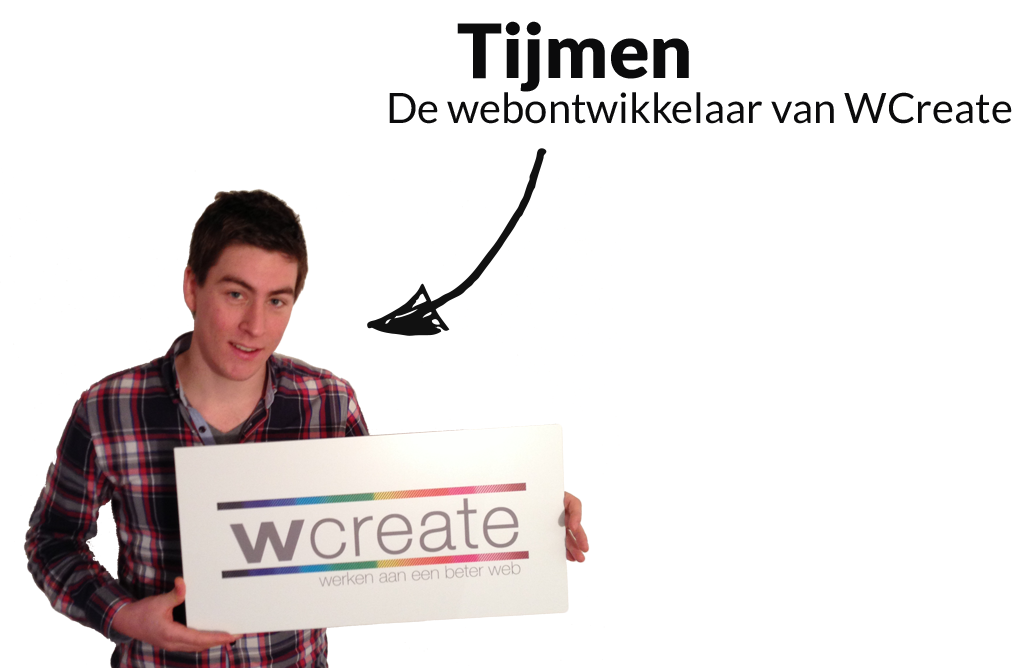
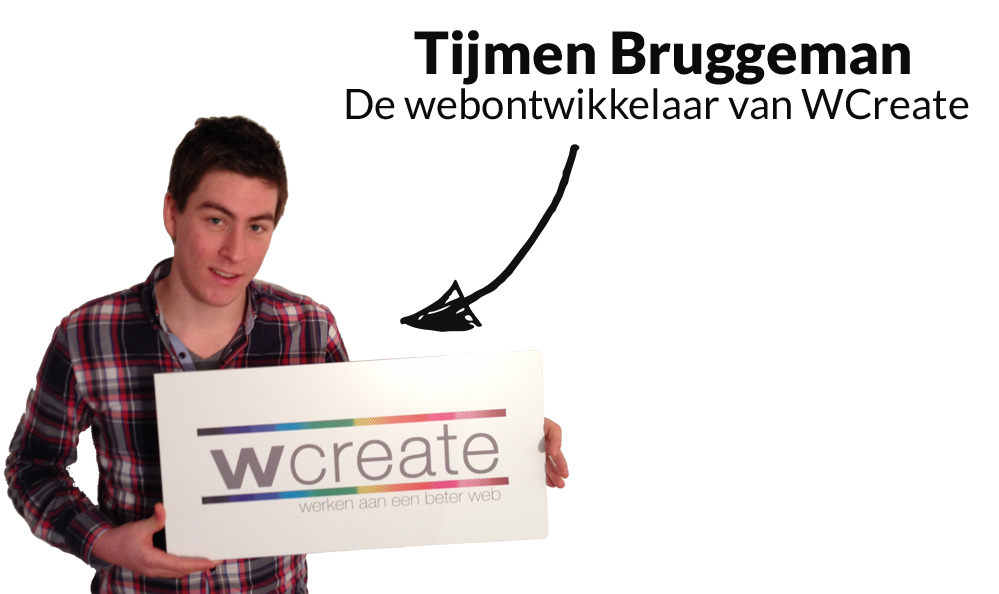
About pagina van tekst voorzien.

Changed region(s): [[0.0, 0.1818, 0.5896, 1.0], [0.3413, 0.0303, 0.993, 0.2424], [0.5586, 0.2424, 0.5896, 0.3333]]

diff --git a/css/style.css b/css/style.css
@@ -1,2 +1,2 @@
-@import url(//fonts.googleapis.com/css?family=Lato:400,700,900);*,html{box-sizing:border-box}body{background:#fff;font-family:Lato,sans-serif;font-size:13px;line-height:20px;margin:0}a{text-decoration:none}p{margin-top:0}.slanted{font-style:italic;font-weight:800}.container,.header{max-width:960px;margin:20px auto;padding:0 20px}.header{display:-webkit-box;display:-ms-flexbox;display:flex;-webkit-box-pack:justify;-ms-flex-pack:justify;justify-content:space-between;background-image:url(../img/bar.png);background-position:bottom left;background-repeat:repeat-x;background-size:100% 5px}.logo h1{text-align:center;color:Lato,sans-serif;margin:0;line-height:50px}.nav-list{list-style:none}.nav-list li{float:left}.nav-list a{display:block;padding:8px 12px;font-weight:700;color:#222}.nav-list a:hover{color:#2c64e8}.landing{padding:60px 0;text-align:center}.landing-title{font-size:3.8em;font-weight:800;margin-bottom:30px;text-shadow:2px 2px 1px #ccc;line-height:initial}@media only screen and (max-width:480px){.landing-title{font-size:3.2em}}.landing-content p{max-width:400px;margin:0 auto}.landing-content .btn{margin:10px 5px}.services{max-width:800px;margin:0 auto;display:-webkit-box;display:-ms-flexbox;display:flex;-webkit-box-pack:justify;-ms-flex-pack:justify;justify-content:space-between}@media only screen and (max-width:480px){.services{-webkit-box-orient:vertical;-webkit-box-direction:normal;-ms-flex-direction:column;flex-direction:column;margin:20px}}.service-title{text-align:center;padding-bottom:10px;border-bottom:1px solid #ccc}@media only screen and (max-width:480px){.service-title{text-align:left;border:none;padding-bottom:0}}.service{width:30%;text-align:center}@media only screen and (max-width:480px){.service{width:100%;border-bottom:1px solid #ccc}}.arrow-down{margin:80px auto;display:block}.recent{display:-webkit-box;display:-ms-flexbox;display:flex;position:relative;-webkit-box-pack:justify;-ms-flex-pack:justify;justify-content:space-between;-webkit-box-align:center;-ms-flex-align:center;align-items:center}@media only screen and (max-width:480px){.recent{display:block}}.recent-description,.recent-screenshot{width:48%}@media only screen and (max-width:480px){.recent-description,.recent-screenshot{width:100%}}.recent-screenshot img{max-width:100%}.footer{background-image:url(../img/bar.png);background-position:top left;background-repeat:repeat-x;background-size:100% 5px;display:-webkit-box;display:-ms-flexbox;display:flex;padding-top:40px;margin-top:80px}@media only screen and (max-width:480px){.footer{-webkit-box-orient:vertical;-webkit-box-direction:reverse;-ms-flex-direction:column-reverse;flex-direction:column-reverse}}.adres,.contact,.social{list-style:none;padding:0;margin:0;width:30%}@media only screen and (max-width:480px){.adres,.contact,.social{margin-bottom:20px}}.site-description{width:40%}@media only screen and (max-width:480px){.site-description{width:100%}}.portfolio-intro{width:340px}.project{position:relative;padding-top:50px;padding-bottom:50px}.project-titel{background:#fff;width:100%;max-width:300px;text-transform:uppercase;display:block;padding:7px;box-shadow:1px 1px 1px rgba(0,0,0,.1)}.project-descr{width:50%}@media only screen and (max-width:480px){.project-descr{width:100%}}.project-descr p{background:#fff;box-shadow:1px 1px 1px rgba(0,0,0,.1)}.project-image{width:48%}@media only screen and (max-width:480px){.project-image{width:100%}}.project-image img{max-width:100%;margin:0 auto;display:block}@media only screen and (max-width:480px){.project-image img{width:100%}}.project .container{display:-webkit-box;display:-ms-flexbox;display:flex;-webkit-box-pack:justify;-ms-flex-pack:justify;justify-content:space-between;-webkit-box-align:center;-ms-flex-align:center;align-items:center}@media only screen and (max-width:480px){.project .container{-webkit-box-orient:vertical;-webkit-box-direction:normal;-ms-flex-direction:column;flex-direction:column}}.project::after{position:absolute;top:0;left:0;-webkit-transform:skewY(-20deg);transform:skewY(-20deg);content:'';display:block;width:100%;height:800px;max-height:100%;background:rgba(0,0,0,.025);z-index:-999}.project:nth-child(even)::after{-webkit-transform:skewY(20deg);transform:skewY(20deg)}@media only screen and (min-width:480px){.project:nth-child(even) .container{-webkit-box-orient:horizontal;-webkit-box-direction:reverse;-ms-flex-direction:row-reverse;flex-direction:row-reverse}}.project:nth-child(even) img{right:-40px}.gallery{display:-webkit-box;display:-ms-flexbox;display:flex;-ms-flex-wrap:wrap;flex-wrap:wrap;-webkit-box-pack:justify;-ms-flex-pack:justify;justify-content:space-between;-webkit-box-align:stretch;-ms-flex-align:stretch;align-items:stretch;position:relative}.project-gallery a{border-right:3px solid #fff;border-bottom:3px solid #fff;height:100%;width:100%;position:absolute;z-index:999}.project-gallery{width:33.33333333%;position:relative;min-height:150px;overflow:hidden}@media only screen and (max-width:480px){.project-gallery{width:50%}}.project-gallery img{max-width:100%;-webkit-transition:all .3s ease-out;transition:all .3s ease-out;position:absolute}.project-gallery-title{position:absolute;top:50%;z-index:1;width:100%;text-align:center;color:#fff;font-weight:800;font-size:2em}.btn{background:#f38630;background-image:-webkit-linear-gradient(125deg,#f37130,#f39830);background-image:linear-gradient(-35deg,#f37130,#f39830);white-space:nowrap;display:inline-block;padding:8px 10px;color:#fff;box-shadow:0 0 5px rgba(0,0,0,.2);-webkit-transition-delay:.1s;transition-delay:.1s;-webkit-transition:all .3s;transition:all .3s}.btn:hover{box-shadow:0 2px 9px rgba(0,0,0,.2);background-image:-webkit-linear-gradient(125deg,#f47b3e,#f29121);background-image:linear-gradient(-35deg,#f47b3e,#f29121)}button{border:0}.btn-secondary{background:#fff;color:#2c64e8;border:2px solid #2c64e8}.btn-secondary:hover{background-image:-webkit-linear-gradient(top,#fff,#fefefe,#fcfcfc);background-image:linear-gradient(180deg,#fff,#fefefe,#fcfcfc)}
[1 lines of base64/hex data omitted]
+@import url(//fonts.googleapis.com/css?family=Lato:400,700,900);*,html{box-sizing:border-box}body{background:#fff;font-family:Lato,sans-serif;font-size:13px;line-height:20px;margin:0}a{text-decoration:none}p{margin-top:0}.slanted{font-style:italic;font-weight:800}.quote{color:#555;font-style:italic}.container,.header{max-width:960px;margin:20px auto;padding:0 20px}.header{display:-webkit-box;display:-ms-flexbox;display:flex;-webkit-box-pack:justify;-ms-flex-pack:justify;justify-content:space-between;background-image:url(../img/bar.png);background-position:bottom left;background-repeat:repeat-x;background-size:100% 5px}.logo h1{text-align:center;color:Lato,sans-serif;margin:0;line-height:50px}.nav-list{list-style:none}.nav-list li{float:left}.nav-list a{display:block;padding:8px 12px;font-weight:700;color:#222}.nav-list a:hover{color:#2c64e8}.landing{padding:60px 0;text-align:center}.landing-title{font-size:3.8em;font-weight:800;margin-bottom:30px;text-shadow:2px 2px 1px #ccc;line-height:initial}@media only screen and (max-width:480px){.landing-title{font-size:3.2em}}.landing-content p{max-width:400px;margin:0 auto}.landing-content .btn{margin:10px 5px}.services{max-width:800px;margin:0 auto;display:-webkit-box;display:-ms-flexbox;display:flex;-webkit-box-pack:justify;-ms-flex-pack:justify;justify-content:space-between}@media only screen and (max-width:480px){.services{-webkit-box-orient:vertical;-webkit-box-direction:normal;-ms-flex-direction:column;flex-direction:column;margin:20px}}.service-title{text-align:center;padding-bottom:10px;border-bottom:1px solid #ccc}@media only screen and (max-width:480px){.service-title{text-align:left;border:none;padding-bottom:0}}.service{width:30%;text-align:center}@media only screen and (max-width:480px){.service{width:100%;border-bottom:1px solid #ccc}}.arrow-down{margin:80px auto;display:block}.recent{display:-webkit-box;display:-ms-flexbox;display:flex;position:relative;-webkit-box-pack:justify;-ms-flex-pack:justify;justify-content:space-between;-webkit-box-align:center;-ms-flex-align:center;align-items:center}@media only screen and (max-width:480px){.recent{display:block}}.recent-description,.recent-screenshot{width:48%}@media only screen and (max-width:480px){.recent-description,.recent-screenshot{width:100%}}.recent-screenshot img{max-width:100%}.footer{background-image:url(../img/bar.png);background-position:top left;background-repeat:repeat-x;background-size:100% 5px;display:-webkit-box;display:-ms-flexbox;display:flex;padding-top:40px;margin-top:80px}@media only screen and (max-width:480px){.footer{-webkit-box-orient:vertical;-webkit-box-direction:reverse;-ms-flex-direction:column-reverse;flex-direction:column-reverse}}.adres,.contact,.social{list-style:none;padding:0;margin:0;width:30%}@media only screen and (max-width:480px){.adres,.contact,.social{margin-bottom:20px}}.site-description{width:40%}@media only screen and (max-width:480px){.site-description{width:100%}}.portfolio-intro{width:340px}.project{position:relative;padding-top:50px;padding-bottom:50px}.project-titel{background:#fff;width:100%;max-width:300px;text-transform:uppercase;display:block;padding:7px;box-shadow:1px 1px 1px rgba(0,0,0,.1)}.project-descr{width:50%}@media only screen and (max-width:480px){.project-descr{width:100%}}.project-descr p{background:#fff;box-shadow:1px 1px 1px rgba(0,0,0,.1)}.project-image{width:48%}@media only screen and (max-width:480px){.project-image{width:100%}}.project-image img{max-width:100%;margin:0 auto;display:block}@media only screen and (max-width:480px){.project-image img{width:100%}}.project .container{display:-webkit-box;display:-ms-flexbox;display:flex;-webkit-box-pack:justify;-ms-flex-pack:justify;justify-content:space-between;-webkit-box-align:center;-ms-flex-align:center;align-items:center}@media only screen and (max-width:480px){.project .container{-webkit-box-orient:vertical;-webkit-box-direction:normal;-ms-flex-direction:column;flex-direction:column}}.project::after{position:absolute;top:0;left:0;-webkit-transform:skewY(-20deg);transform:skewY(-20deg);content:'';display:block;width:100%;height:800px;max-height:100%;background:rgba(0,0,0,.025);z-index:-999}.project:nth-child(even)::after{-webkit-transform:skewY(20deg);transform:skewY(20deg)}@media only screen and (min-width:480px){.project:nth-child(even) .container{-webkit-box-orient:horizontal;-webkit-box-direction:reverse;-ms-flex-direction:row-reverse;flex-direction:row-reverse}}.project:nth-child(even) img{right:-40px}.gallery{display:-webkit-box;display:-ms-flexbox;display:flex;-ms-flex-wrap:wrap;flex-wrap:wrap;-webkit-box-pack:justify;-ms-flex-pack:justify;justify-content:space-between;-webkit-box-align:stretch;-ms-flex-align:stretch;align-items:stretch;position:relative}.project-gallery a{border-right:3px solid #fff;border-bottom:3px solid #fff;height:100%;width:100%;position:absolute;z-index:999}.project-gallery{width:33.33333333%;position:relative;min-height:150px;overflow:hidden}@media only screen and (max-width:480px){.project-gallery{width:50%}}.project-gallery img{max-width:100%;-webkit-transition:all .3s ease-out;transition:all .3s ease-out;position:absolute}.project-gallery-title{position:absolute;top:50%;z-index:1;width:100%;text-align:center;color:#fff;font-weight:800;font-size:2em}.profile-picture{max-width:350px;float:right}.text-section{max-width:350px}.btn{background:#f38630;background-image:-webkit-linear-gradient(125deg,#f37130,#f39830);background-image:linear-gradient(-35deg,#f37130,#f39830);white-space:nowrap;display:inline-block;padding:8px 10px;color:#fff;box-shadow:0 0 5px rgba(0,0,0,.2);-webkit-transition-delay:.1s;transition-delay:.1s;-webkit-transition:all .3s;transition:all .3s}.btn:hover{box-shadow:0 2px 9px rgba(0,0,0,.2);background-image:-webkit-linear-gradient(125deg,#f47b3e,#f29121);background-image:linear-gradient(-35deg,#f47b3e,#f29121)}button{border:0}.btn-secondary{background:#fff;color:#2c64e8;border:2px solid #2c64e8}.btn-secondary:hover{background-image:-webkit-linear-gradient(top,#fff,#fefefe,#fcfcfc);background-image:linear-gradient(180deg,#fff,#fefefe,#fcfcfc)}
[1 lines of base64/hex data omitted]

diff --git a/about/index.html b/about/index.html
@@ -31,16 +31,26 @@
 </header>
 
 <div class="container">
-    <div class="portfolio-intro">
-        <p>WCreate is het internetbureau van Tijmen Bruggeman. Het is opgericht in 2012 met als doel om startende ondernemers
-            en kleine MKB bedrijven beter te helpen met hun online ambities.</p>
-        <blockquote>Steeds meer ging ik samenwerken met andere freelancers om grote projecten te tackelen. Daarmee ging ik
-            mij specialiseren op de technische realisatie van projecten. Door specialisten in te schakelen wanneer het nodig is kunnen de
-            kosten laag en de kwaliteit hoog blijven.</blockquote>
+    <article>
+        <section>
+            <h2>Wie is WCreate?</h2>
+            <img src="../img/tijmenbruggeman-met-reclamebord.png" alt="Tijmen Bruggeman - Freelance webontwikkelaar en designer uit Wierden" class="profile-picture">
+            <p>WCreate is het internetbureau van freelance webontwikkelaar Tijmen Bruggeman. Het is opgericht in 2012 met
+                als doel om startende ondernemers en kleine MKB bedrijven beter te helpen met hun online ambities.</p>
+            <p>Mijn specialisatie is de technische realisatie van webapplicaties, websites en webwinkels. Voor andere doeleinden
+            schakelt WCreate de beste specialisten in.</p>
 
-        <strong>WCreate zit midden in een verhuizing! Wij gaan naar WIERDEN!</strong>
-        <span class="slanted">De website is in aanbouw.</span>
-    </div>
+            <blockquote class="quote">"Na een aantal jaar als webontwikkelaar heb ik veel ervaring opgebouwd en een grote kenniskring opgebouwd
+                met specialisten op het gebied van SEO-marketing, design en fotografie."</blockquote>
+        </section>
+
+        <section class="text-section">
+            <h2>Waarom WCreate?</h2>
+            <p>Een internetbureau heeft vast personeel waar je als klant altijd voor betaald. Bij WCreate werk je met mij of
+            meerdere freelancers. Je werkt dus altijd met specialisten in het vakgebied en je betaald alleen wanneer je iets nodig hebt.</p>
+            <strong class="emphasis">Als WCreate ben ik jou contactpersoon en online partner.</strong>
+        </section>
+    </article>
 
 </div>
 

diff --git a/css/style.scss b/css/style.scss
@@ -26,6 +26,11 @@ p {
   font-weight: 800;
 }
 
+.quote {
+  color: #555;
+  font-style: italic;
+}
+
 .header, .container {
   max-width: 960px;
   margin: 20px auto;
@@ -303,6 +308,15 @@ p {
   color: #fff;
   font-weight: 800;
   font-size: 2em;
+}
+
+.profile-picture {
+  max-width: 350px;
+  float: right;
+}
+
+.text-section {
+  max-width: 350px;
 }
 
 /* ==========================================================================
